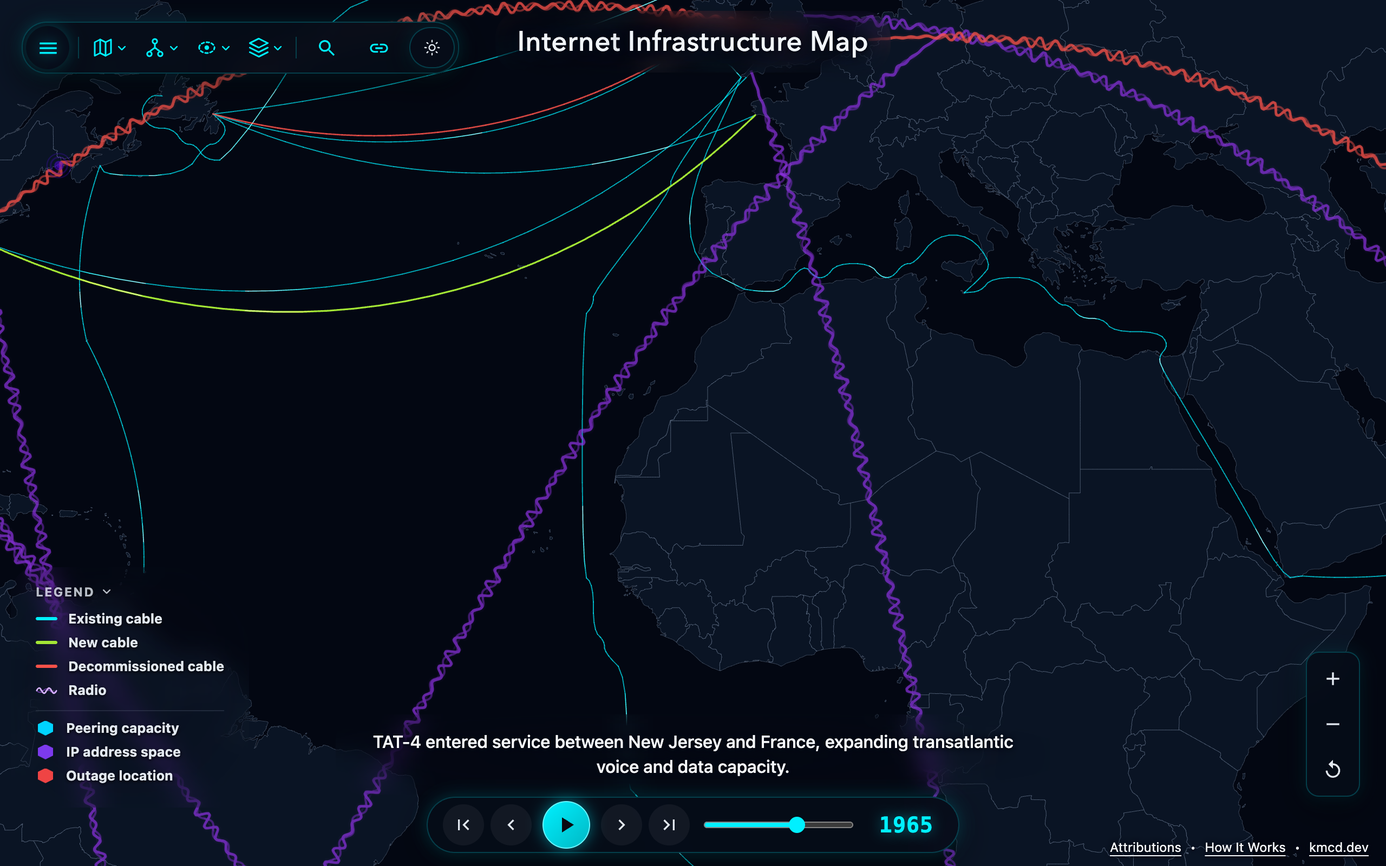
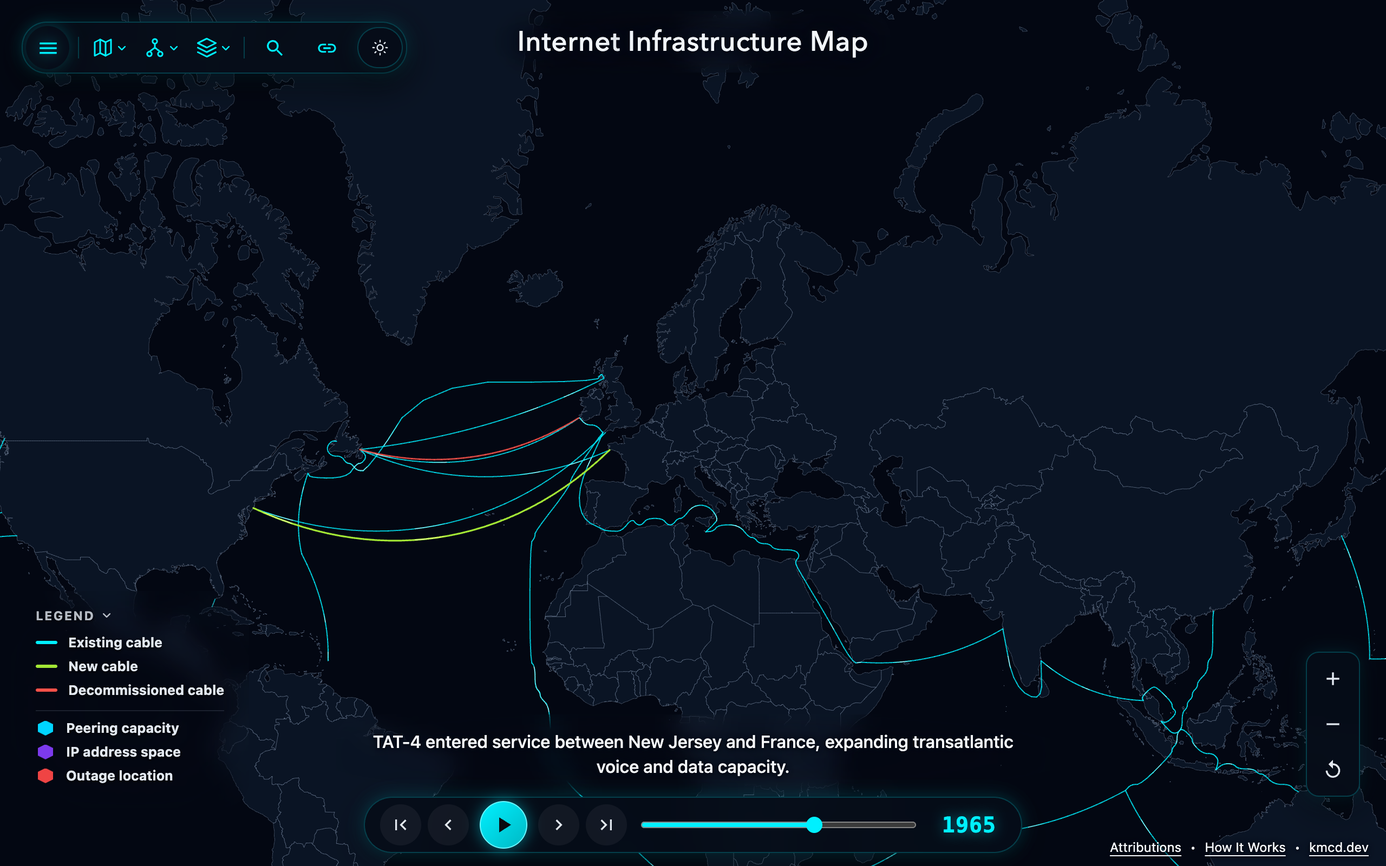
Fixes

diff --git a/content/posts/2026/from-copper-to-glass/index.md b/content/posts/2026/from-copper-to-glass/index.md
@@ -1,9 +1,9 @@
 ---
 categories: ["article", "project", "dataviz"]
 tags: ["dataviz", "internet-map", "internet", "networking", "bgp", "fiber-optics", "radio", "satellites", "telegraph", "history", "map", "world", "infrastructure"]
-keywords: ["physical internet", "how the internet works", "submarine cable history", "undersea telegraph cable", "vlf radio stations", "shortwave radio trunks", "coaxial submarine cable", "tat-1", "tat-8", "communications satellites", "satnet", "starlink vs fiber optic bandwidth", "undersea fiber optic cables", "edfa amplifier", "roadm", "ixp peering", "bgp routing", "decommissioned submarine cables"]
+keywords: ["physical internet", "how the internet works", "submarine cable history", "undersea telegraph cable", "vlf radio stations", "shortwave radio trunks", "coaxial submarine cable", "tat-1", "tat-8", "communications satellites", "satnet", "starlink vs fiber optic bandwidth", "undersea fiber optic cables", "terrestrial backbone corridors", "edfa amplifier", "roadm", "ixp peering", "bgp routing", "decommissioned submarine cables"]
 date: "2026-11-03T10:00:00Z"
-description: "Adding a visual history of global communications at map.kmcd.dev/learn/, backfilling decommissioned telegraph and coaxial cables, and mapping intercontinental radio trunks."
+description: "Adding a visual history of global communications at map.kmcd.dev/learn/, backfilling decommissioned telegraph and coaxial cables, mapping intercontinental radio trunks, and adding terrestrial backbone corridors."
 cover: "cover.webp"
 images: ["posts/from-copper-to-glass/cover.webp"]
 featured: true
@@ -15,9 +15,7 @@ canonical_url: https://kmcd.dev/posts/from-copper-to-glass
 draft: true
 ---
 
-I originally built the [Internet Infrastructure Map](https://map.kmcd.dev) because I thought undersea fiber-optic cables were interesting. Since then, I've been slowly piecing the history of the global Internet together. After adding historical fiber cables, I started backfilling old telegraph and coaxial cables. Then I realized the picture still wasn't complete: if you scrubbed through the early-to-mid 1900s on the map, it didn't make any sense. Major routes were being decommissioned with no alternative replacing them.
-
-The missing piece was point-to-point radio systems that took over intercontinental traffic during that era. Once I added radio to the map, I also built a new page at **[map.kmcd.dev/learn/](https://map.kmcd.dev/learn/)** to walk through the technological history that led to our modern internet.
+I originally built the [Internet Infrastructure Map](https://map.kmcd.dev) because I thought undersea fiber-optic cables were interesting. Since then, I've been slowly piecing the history of the global Internet together. After adding historical fiber cables, I started backfilling old telegraph and coaxial cables. Then I finally added radio systems to the map, stopping short of the monumental task of mapping satellites. I also built a new page at **[map.kmcd.dev/learn/](https://map.kmcd.dev/learn/)** to walk through the technological history that led to our modern internet.
 
 {{< diagram >}}
 {{< figure src="learn-telegraph.png" alt="The new /learn/ page on map.kmcd.dev showing the Copper Pulses telegraph section" caption="The new page at **[map.kmcd.dev/learn/](https://map.kmcd.dev/learn/)**." loading="lazy" >}}
@@ -25,61 +23,44 @@ The missing piece was point-to-point radio systems that took over intercontinent
 
 ## Backfilling Decommissioned Cables
 
-Modern submarine cable databases focus almost exclusively on active fiber systems. When I first added the timeline slider down to 1858, a lot of historical cables were either missing or had the wrong activation and retirement years. If a cable's retirement year was missing, it either stayed on the map forever or never showed up at all.
+Modern submarine cable databases focus almost exclusively on active fiber systems. The historical data is pretty messy. I did a lot of tedious work trying to patch the full history together. There is a new button on the map if you want to download the whole 1858-to-present cable list as a CSV. I suspect it will be useful to some others as well.
 
-I went back through historical records to backfill dozens of decommissioned systems and fix their retirement dates across three generations of undersea cables (and added a button on the map to download the full 1858–present cable dataset as a CSV):
-
-- **Telegraph Cables (1858–1900s):** From the short-lived **1858 Transatlantic Cable** and the **1866 Cable** laid by the *SS Great Eastern* to the **1870 UK–Australia** chain, the **German Atlantic (1900)** cable, the British **All Red Line (1902)**, and the **First Transpacific (1903)** cable.
-- **Coaxial Telephone Cables (1920s–1980s):** Starting with **Key West–Havana (1921)** and **TAT-1 (1956)** through **TAT-7**, **CANTAT-1/2**, **COMPAC**, **TPC-1/2**, and **SAT-1**.
-- **Retired First-Generation Fiber (1988–2000s):** Early optical systems from the late 1980s and 1990s that have already been retired, like **TAT-8**, **HAW-4**, **TPC-3**, and **SEA-ME-WE 1 & 2**.
-
-I also backfilled the historical BGP routing layer on the map from 2010 back to **1997** using archived Cisco `show ip bgp` text dumps from [RouteViews](https://archive.routeviews.org/oix-route-views/) and early MRT snapshots from [RIPE RIS](https://data.ris.ripe.net/rrc00/).
+While I was digging through old archives, I also pushed the map's historical BGP routing layer back from 2010 to **1997** using [RouteViews](https://archive.routeviews.org/oix-route-views/) and [RIPE RIS](https://data.ris.ripe.net/rrc00/).
 
 {{< diagram >}}
-{{< figure src="map-coax-1965.png" alt="The map in 1965 showing coaxial submarine cables and decommissioned radio links" caption="The map in **[1965](https://map.kmcd.dev/?year=1965)** as coaxial telephone cables were replacing older telegraph and radio links." loading="lazy" >}}
+{{< figure src="map-coax-1965.png" alt="The map in 1965 showing coaxial submarine cables and decommissioned telegraph cables" caption="The map in **[1965](https://map.kmcd.dev/?year=1965)** as coaxial telephone cables were replacing older telegraph cables." loading="lazy" >}}
 {{< /diagram >}}
 
 ## Why the Map Needed Radio
 
-Fixing the decommission dates on the old telegraph cables created a new problem. When I dragged the timeline slider through the early-to-mid 1900s, major routes were turning red and disappearing with nothing taking their place. Early transatlantic telegraph cables were retiring in the 1910s and 1920s, the **German Atlantic** cable was cut in 1914 with no replacement cable for decades, and the **1903 First Transpacific** cable retired in 1951—years before the first transpacific coaxial cables (**HAW-1** and **TPC-1**) were laid.
+Fixing the decommission dates on the old telegraph cables created a new problem. When I dragged the timeline slider through the early-to-mid 1900s, major routes were turning red and disappearing with nothing taking their place. Out in the Pacific, the **1903 First Transpacific** cable shut down in 1951, years before the first coaxial telephone cables (**HAW-1** and **TPC-1**) were laid. Looking at a cables-only map, it looked like the world was disconnecting itself in the first half of the 1900s.
 
-Looking at a cables-only map, it looked like the world was disconnecting itself in the first half of the 1900s. In reality, those routes moved into the air. Before undersea vacuum-tube repeaters made transoceanic telephone cables possible in 1956, point-to-point longwave and shortwave radio networks took over long-distance telegraphy and carried the first intercontinental phone calls.
+In reality, those routes moved into the air.
 
 {{< diagram >}}
 {{< figure src="map-radio-1929.png" alt="The map in 1929 showing wavy point-to-point radio links across the globe" caption="Intercontinental radio trunks (wavy purple lines) alongside submarine telegraph cables in **[1929](https://map.kmcd.dev/?year=1929)**." loading="lazy" >}}
 {{< /diagram >}}
 
-To fill in that gap, I added a **Radio** layer to **[map.kmcd.dev](https://map.kmcd.dev)** (rendered as wavy purple lines) covering major intercontinental radio links from 1907 to the 1970s—including Marconi's early transatlantic stations, the British Imperial Wireless Chain, the Dutch *"Hallo Bandoeng"* link to Java, AT&T and RCA's transatlantic and transpacific trunks, Denmark's Skamlebæk Radio across the North Atlantic, and high-power VLF stations like Grimeton (SAQ), Rugby (GBR), and naval submarine transmitters like Goliath, Jim Creek, and Cutler (which show up on the map as giant coverage rings).
+To fill that gap, I added a **Radio** layer to **[map.kmcd.dev](https://map.kmcd.dev)** (rendered as wavy purple lines) covering major intercontinental radio trunks from 1907 into the 1970s. High-power VLF stations also show up on the map as big coverage rings. With radio on the map, the timeline in the 1900s finally makes sense.
 
-With radio on the map, the timeline in the 1900s finally makes sense. You can see radio links spin up in the 1910s and 1920s as old telegraph cables age out, and then watch each radio trunk retire in the 1950s and 1960s the exact year a coaxial cable like **TAT-1 (1956)**, **CANTAT-1 (1961)**, **COMPAC (1963)**, or **TPC-1 (1964)** lands on the same corridor.
+## Terrestrial Backbones
 
-## What About Satellites?
-
-Once you reach the 1960s, another piece of infrastructure enters the picture: communications satellites. From **Telstar 1 (1962)** and **INTELSAT I ("Early Bird", 1965)** in geostationary orbit to the Soviet **Molniya** constellation, satellites carried over half of all transoceanic phone calls and nearly all live international television through the 1970s and early 1980s—and even carried the first transatlantic TCP/IP packets over DARPA's **SATNET**.
-
-I actually tried adding satellites to the main map at first, but between the orbit rings, moving constellations, and ground footprints, it cluttered up the globe too much and made it hard to click on cities. Instead of cramming them onto the 2D/3D cable map, I dedicated a full section of the **[learn page](https://map.kmcd.dev/learn/#era-satellite)** to the impact of satellites—from the ~550 ms speed-of-light latency tax in geostationary orbit that pushed core voice and Internet trunks back to subsea fiber with **TAT-8 (1988)**, to how modern LEO constellations like **Starlink**, **OneWeb**, and **Iridium** compare against submarine glass today—while pointing to dedicated 3D orbital trackers like **[satellitemap.space](https://satellitemap.space)** and **[Stuff in Space](https://stuffin.space)** to visualize the live constellations.
+You might have noticed that submarine cables are only shown in the water. One reason is the definition of "submarine" but yes, there is a ton of buried fiberoptic cable along the sides of major highways and rail lines all across every continent in the world. This hasn't been represented very well, so that map had huge empty gaps across the middle of continents even with inland IXPs from PeeringDB on the map. To help fix this, I added a new **Backbone** layer (dashed orange lines) to connect major inland IXPs to each other and to the coastal cable landings.
 
 {{< diagram >}}
-{{< figure src="learn-satellites.png" alt="The Satellites (Orbital Relays) section on map.kmcd.dev/learn" caption="The new **[Satellites](https://map.kmcd.dev/learn/#era-satellite)** section on **[map.kmcd.dev/learn/](https://map.kmcd.dev/learn/)**." loading="lazy" >}}
+{{< figure src="map-backbone.png" alt="The map showing terrestrial backbone corridors connecting inland metro hubs across North America, Europe, South America, and India" caption="Terrestrial backbone corridors (dashed orange lines) alongside submarine cables in **[2026](https://map.kmcd.dev)**." loading="lazy" >}}
 {{< /diagram >}}
 
 ## From Copper to Glass
 
-The map shows *where* all of these systems were built, but there are a lot of cool engineering stories behind how they worked and why each generation replaced the last. I put together **[map.kmcd.dev/learn/](https://map.kmcd.dev/learn/)** as an interactive companion guide to the map.
+A map is great for showing where all of these lines went, but I also wanted a place to explain how the hardware worked and why each technology replaced the one before it. That's what **[map.kmcd.dev/learn/](https://map.kmcd.dev/learn/)** is for. It also has a full section on **[satellites](https://map.kmcd.dev/learn/#era-satellite)**, since trying to draw satellite orbits on the main map was a complete mess.
 
 {{< diagram >}}
 {{< figure src="learn-radio.png" alt="The Longwave Ether section on map.kmcd.dev/learn" caption="Inside **[map.kmcd.dev/learn/](https://map.kmcd.dev/learn/)**." loading="lazy" >}}
 {{< /diagram >}}
 
-It walks through six eras with custom SVG diagrams and direct links to jump to each era on the map:
+{{< diagram >}}
+{{< figure src="learn-satellites.png" alt="The Satellites (Orbital Relays) section on map.kmcd.dev/learn" caption="The new **[Satellites](https://map.kmcd.dev/learn/#era-satellite)** section on **[map.kmcd.dev/learn/](https://map.kmcd.dev/learn/)**." loading="lazy" >}}
+{{< /diagram >}}
 
-1. **[Copper Pulses (1850s to 1920s)](https://map.kmcd.dev/learn/#era-telegraph):** Why the first transatlantic cable burned out after three weeks, how 4,000 km of ocean turns a wire into a giant capacitor, the clever signaling trick that made undersea telegraphy work, and a plug for **[morse.kmcd.dev](https://morse.kmcd.dev)** to test your own Morse code WPM.
-2. **[Longwave Ether (1910s to 1940s)](https://map.kmcd.dev/learn/#era-radio):** How wartime censorship and cable-cutting led to continent-scale VLF stations and a 2 km antenna strung across a volcanic gorge in Java (*"Hallo Bandoeng"*), and how shortwave beams upended the undersea cable monopoly and carried the first transoceanic phone calls.
-3. **[Coaxial Waves (1950s to 1980s)](https://map.kmcd.dev/learn/#era-coax):** Why solar storms pushed intercontinental phone calls back to the ocean floor with **TAT-1**, and how engineers powered vacuum-tube repeaters with ~4,000V DC every 70 km across the Atlantic and Pacific.
-4. **[Orbital Relays / Satellites (1960s to Present)](https://map.kmcd.dev/learn/#era-satellite):** How **Telstar**, **Early Bird**, and **INTELSAT** took over more than half of transoceanic voice calls and connected early **SATNET** TCP/IP networks, why geostationary latency (~550 ms RTT) drove core Internet backbones back to the seabed, and why over 99% of intercontinental data still travels through submarine fiber even in the era of LEO mega-constellations like **Starlink**.
-5. **[Photonic Glass (1988 to Present)](https://map.kmcd.dev/learn/#era-fiber):** Inside an 8-layer modern submarine fiber cable, how undersea repeaters (EDFAs and Raman lasers) amplify light directly inside the glass, how underwater branching units and ROADMs drop wavelengths off at islands, and some of my favorite places to spot on the map (island-hopping cables in the Maldives, polar satellite ground-station fiber to Svalbard, and the Red Sea / Suez Canal chokepoint).
-6. **[Network Peering (Present)](https://map.kmcd.dev/learn/#era-bgp):** What happens once the light leaves the ocean—how Internet Exchange Points (IXPs), private cross-connects (PNIs), and paid IP transit compare, plus how to spot IXP peering in `traceroute` hostnames with a side-by-side comparison of traffic tromboning through London vs. peering locally at AMS-IX.
-
-## Check It Out
-
-Head over to **[map.kmcd.dev/learn/](https://map.kmcd.dev/learn/)** to read the full guide, or scrub through the updated historical timeline yourself on **[map.kmcd.dev](https://map.kmcd.dev)**.
+Take a look at **[map.kmcd.dev/learn/](https://map.kmcd.dev/learn/)** and **[map.kmcd.dev](https://map.kmcd.dev)**, and let me know what you think.

diff --git a/content/posts/2026/http3-from-scratch-part-3/index.md b/content/posts/2026/http3-from-scratch-part-3/index.md
@@ -23,47 +23,45 @@ In this post, we'll remove `quic-go` and implement our own QUIC packet and strea
 
 ### Leaving TCP Behind
 
-At the end of [HTTP/2 From Scratch: Part 4](/posts/http2-from-scratch-part-4/), I talked about why HTTP/2 only solved head-of-line blocking at the application layer. Since HTTP/2 multiplexes all of its streams over a single TCP connection, it still inherits TCP's strict sequential packet ordering. If a TCP packet carrying bytes for `Stream 0` gets dropped on the network while a packet for `Stream 4` arrives, the OS kernel holds `Stream 4`'s bytes in its buffer until the lost packet for `Stream 0` is retransmitted:
+At the end of [HTTP/2 From Scratch: Part 4](/posts/http2-from-scratch-part-4/), I talked about why HTTP/2 only solved head-of-line blocking at the application layer. Since HTTP/2 multiplexes all of its streams over a single TCP connection, it still inherits TCP's strict sequential packet ordering. In Part 4, I drew this diagram of `Stream 4` waiting in the kernel's TCP receive buffer while TCP retransmits a lost packet for `Stream 0`:
 
 {{< image src="holb.png" width="420px" class="center" >}}
 
-As I mentioned back then, the only ways around this were to make big changes to TCP (which isn't going to happen with how many routers and firewalls inspect TCP headers) or abandon TCP for UDP. QUIC ([RFC 9000](https://www.rfc-editor.org/rfc/rfc9000.html)) takes the UDP route. Since UDP datagrams are just 8 bytes of port and length headers followed by raw bytes, QUIC can manage its own streams and retransmissions on top of `net.PacketConn` without one lost packet stalling every other stream on the connection.
-
-And as I wrote about in [gRPC Over HTTP/3](/posts/grpc-over-http3/), QUIC also folds the TLS 1.3 handshake into its own `CRYPTO` frames (`0x06`) instead of waiting for a separate TCP 3-way handshake to finish first, which gets new connections down to 1-RTT (or 0-RTT when resuming a session).
+In `quic_conn.go`, we use `net.ListenPacket("udp", addr)` instead of `net.Listen("tcp", addr)`. Because QUIC ([RFC 9000](https://www.rfc-editor.org/rfc/rfc9000.html)) frames its own packets over UDP and carries the TLS 1.3 handshake inside `CRYPTO` frames (`0x06`) (which I wrote about in [gRPC Over HTTP/3](/posts/grpc-over-http3/)), each `toyQUICStream` can buffer and read its own frames without waiting on other streams.
 
 ### Debugging QUIC Traffic
 
 One downside of moving from HTTP/1.1 on TCP to QUIC on UDP is that you can't just use `nc` or `telnet` to see what your server is doing.
 
-When I was working on my `quic-go` PRs, I used Wireshark with `SSLKEYLOGFILE=/tmp/keys.log`. If you set that environment variable when running `quic-go`, `curl`, or Chrome, they dump their TLS keys to `/tmp/keys.log`. You can configure that path in Wireshark under *Preferences -> Protocols -> TLS* and Wireshark will decrypt the UDP datagrams and show you the `CRYPTO`, `ACK`, and `STREAM` frames inside. `quic-go` also has a `QLOGDIR` environment variable that writes JSON trace files you can open in [qvis.quictools.info](https://qvis.quictools.info/).
+When I was working on my `quic-go` PRs, I used Wireshark with `SSLKEYLOGFILE=/tmp/keys.log`. With `/tmp/keys.log` configured under *Preferences -> Protocols -> TLS*, Wireshark decrypts the QUIC packets from `quic-go`, `curl`, and Chrome. I also used `QLOGDIR` in `quic-go` to dump `.qlog` files for [qvis.quictools.info](https://qvis.quictools.info/).
 
 ### QUIC Packets and STREAM Frames
 
-When we read a UDP datagram from `net.PacketConn`, we first need to parse the QUIC packet header ([RFC 9000 Section 17](https://www.rfc-editor.org/rfc/rfc9000.html#name-packet-formats)). The highest bit of the first byte tells us whether we're looking at a **Long Header** (used during the handshake) or a **Short Header** (used for 1-RTT data):
+In `quic_frame.go`, `ParsePacket` decodes the QUIC packet header ([RFC 9000 Section 17](https://www.rfc-editor.org/rfc/rfc9000.html#name-packet-formats)) from the start of each UDP datagram. We check the highest bit (`0x80`) of the first byte to see which of the two RFC 9000 packet headers we're parsing:
 
 {{< image src="quic-packets.svg" width="820px" class="center" inline="true" >}}
 
-Notice that both packet headers include a **Destination Connection ID** (`DestConnID`). With TCP, a connection is identified by the client and server IP and port, so if you switch from Wi-Fi to mobile data and your IP address changes, your TCP connection dies. In QUIC, the server looks up the connection in a map using `DestConnID` instead of the UDP source address.
+Notice that both packet headers include a **Destination Connection ID** (`DestConnID`). In `quic_conn.go`, our listener stores active connections in `conns map[uint64]*toyQUICConn` keyed by `DestConnID` rather than by the client's UDP address (which is also how QUIC connections survive Wi-Fi to cellular IP changes).
 
 Inside the packet payload is a sequence of QUIC frames ([RFC 9000 Section 19](https://www.rfc-editor.org/rfc/rfc9000.html#name-frame-types-and-formats)). Here are the `Packet` and `QUICFrame` structs we use in `quic_frame.go`:
 
 ```go
 type Packet struct {
-	IsLongHeader bool
-	LongType     uint8
-	Version      uint32
-	DestConnID   uint64
-	SrcConnID    uint64
-	PacketNumber uint32
-	Frames       []QUICFrame
+    IsLongHeader bool
+    LongType     uint8
+    Version      uint32
+    DestConnID   uint64
+    SrcConnID    uint64
+    PacketNumber uint32
+    Frames       []QUICFrame
 }
 
 type QUICFrame struct {
-	Type     uint64
-	StreamID uint64
-	Offset   uint64
-	Fin      bool
-	Data     []byte
+    Type     uint64
+    StreamID uint64
+    Offset   uint64
+    Fin      bool
+    Data     []byte
 }
 ```
 
@@ -76,70 +74,68 @@ In `AppendQUICFrame`, we set those bits on `QUICFrameStreamBase` (`0x08`) and en
 ```go
 frameType := QUICFrameStreamBase | StreamFlagLEN
 if f.Offset > 0 {
-	frameType |= StreamFlagOFF
+    frameType |= StreamFlagOFF
 }
 if f.Fin {
-	frameType |= StreamFlagFIN
+    frameType |= StreamFlagFIN
 }
 buf = AppendVarint(buf, frameType)
 buf = AppendVarint(buf, f.StreamID)
 if f.Offset > 0 {
-	buf = AppendVarint(buf, f.Offset)
+    buf = AppendVarint(buf, f.Offset)
 }
 buf = AppendVarint(buf, uint64(len(f.Data)))
 buf = append(buf, f.Data...)
 ```
 
-The `Stream ID` varint in that diagram also uses its lowest two bits as flags: bit `0` is `0` for client-initiated streams and `1` for server-initiated streams, and bit `1` is `0` for bidirectional streams and `1` for unidirectional streams. That explains the stream numbers we saw in Part 1 and Part 2: client request streams have `0b00` in the bottom two bits (`0, 4, 8...`), the client's control stream has `0b10` (`2`), and the server's control stream has `0b11` (`3`).
+Take a look at the `Stream ID` varint in that diagram too. Remember in Part 1 and Part 2 how client request streams were numbered `0, 4, 8...` while the control streams were `2` and `3`? The lowest two bits of a QUIC stream ID are bitflags for who initiated the stream (`client=0, server=1`) and whether it's unidirectional (`bidi=0, uni=1`). Counting up client bidirectional streams by 1 actually increments the ID by 4 (`0b00`, `0b100`, `0b1000`).
 
-What about QUIC packet encryption? In a real QUIC stack like `quic-go`, the payload of every QUIC packet is encrypted with keys from the TLS 1.3 handshake in the `CRYPTO` frames. Just like I skipped implementing Huffman trees in HTTP/2 Part 4 and skipped HTTP trailers in Part 1, I'm not implementing RFC 9001 TLS packet header protection here. Our toy `quic_conn.go` sends the encoded `Packet` bytes directly over the UDP socket.
+What about QUIC packet encryption? In a real QUIC stack like `quic-go`, the payload of every QUIC packet is encrypted with keys from the TLS 1.3 handshake in the `CRYPTO` frames. Just like I skipped implementing Huffman trees in HTTP/2 Part 4 and skipped HTTP trailers in Part 1, I'm not implementing RFC 9001 TLS packet header protection here. In `quic_conn.go`, we just write the encoded `Packet` bytes straight to the UDP socket.
 
 ### Reassembling Streams Over UDP
 
-How do we turn unordered UDP datagrams into an `io.Reader` stream that delivers bytes in order? In `quic_conn.go`, each `toyQUICStream` keeps a `chunks map[uint64][]byte` that maps a byte `Offset` to its data slice, along with `readOffset` and `finOffset`:
+In `quic_conn.go`, each stream is a `toyQUICStream` that implements `io.Reader` and `io.Writer`. Whenever `handlePacket` decodes a `STREAM` frame from the UDP socket, it passes the frame's byte `Offset`, `Data`, and `Fin` bit to `pushFrame`, which stores the slice in `s.chunks[offset]` and wakes up any blocked reader on `s.cond`:
 
 ```go
 func (s *toyQUICStream) pushFrame(offset uint64, data []byte, fin bool) {
-	s.mu.Lock()
-	defer s.mu.Unlock()
+    s.mu.Lock()
+    defer s.mu.Unlock()
 
-	if len(data) > 0 {
-		s.chunks[offset] = bytes.Clone(data)
-	}
-	if fin {
-		s.finReceived = true
-		s.finOffset = offset + uint64(len(data))
-	}
-	s.cond.Broadcast()
+    if len(data) > 0 {
+        s.chunks[offset] = bytes.Clone(data)
+    }
+    if fin {
+        s.finReceived = true
+        s.finOffset = offset + uint64(len(data))
+    }
+    s.cond.Broadcast()
 }
 ```
 
-When the HTTP/3 server or client calls `stream.Read(p)`, we check if `s.chunks` has an entry for the current `s.readOffset`. If the next chunk hasn't arrived yet, `Read` blocks on `s.cond.Wait()`:
+In `Read`, we look up `s.chunks[s.readOffset]` in a loop. If UDP datagrams arrive out of order (like `offset=6` arriving before `offset=0` in `TestOutOfOrderStreamReassembly`), `s.chunks[0]` isn't in the map yet and `Read` blocks on `s.cond.Wait()` without holding up other streams on the connection:
 
 ```go
 func (s *toyQUICStream) Read(p []byte) (int, error) {
-	s.mu.Lock()
-	defer s.mu.Unlock()
+    s.mu.Lock()
+    defer s.mu.Unlock()
 
-	for {
-		if chunk, ok := s.chunks[s.readOffset]; ok {
-			n := copy(p, chunk)
-			s.advanceReadOffset(n, chunk)
-			return n, nil
-		}
-		if s.finReceived && s.readOffset >= s.finOffset {
-			return 0, io.EOF
-		}
-		s.cond.Wait()
-	}
+    for {
+        if chunk, ok := s.chunks[s.readOffset]; ok {
+            n := copy(p, chunk)
+            s.advanceReadOffset(n, chunk)
+            return n, nil
+        }
+        if s.finReceived && s.readOffset >= s.finOffset {
+            return 0, io.EOF
+        }
+        s.cond.Wait()
+    }
 }
 ```
 
-If `offset=6 ("world!")` arrives on the UDP socket before `offset=0 ("hello ")`, `pushFrame` stores `"world!"` at `s.chunks[6]` and `Read` waits until `offset=0` shows up. Once `offset=0` arrives, `Read` reads `"hello "`, advances `s.readOffset` to `6`, and can immediately read `"world!"` on the next call. And since every `toyQUICStream` has its own `chunks` map, a delayed packet on `Stream 0` won't block `Read` on `Stream 4`.
-
 ### Running HTTP/3 on Our UDP Transport
 
-With `quic_frame.go` and `quic_conn.go` in place, we can drop `github.com/quic-go/quic-go` from `go.mod`:
+Removing `github.com/quic-go/quic-go` from `go.mod` leaves `golang.org/x/net` as our only dependency (which we added back in [HTTP/2 From Scratch: Part 4](/posts/http2-from-scratch-part-4/) for its HPACK/QPACK Huffman table):
 
 ```go
 module http3-part-3
@@ -149,20 +145,18 @@ go 1.25.5
 require golang.org/x/net v0.55.0
 ```
 
-The only dependency left in `go.mod` is `golang.org/x/net` for the HPACK/QPACK Huffman table from [HTTP/2 From Scratch: Part 4](/posts/http2-from-scratch-part-4/).
-
-In `transport.go`, we wire `ListenQUIC` and `DialQUIC` up to `ListenToyQUIC` and `DialToyQUIC` and run the tests and demo with our `server.go` and `client.go` from Part 2:
+In `transport.go`, I pointed `ListenQUIC` and `DialQUIC` at `ListenToyQUIC` and `DialToyQUIC` instead of `quic-go`, while keeping `server.go` and `client.go` from Part 2 untouched:
 
 ```shell
-$ go test -v ./...
+\$ go test -v ./...
 === RUN   TestOutOfOrderStreamReassembly
 --- PASS: TestOutOfOrderStreamReassembly (0.00s)
 === RUN   TestEndToEndHTTP3OverToyQUIC
 --- PASS: TestEndToEndHTTP3OverToyQUIC (0.00s)
 PASS
-ok  	http3-part-3	0.719s
+ok      http3-part-3    0.719s
 
-$ go run .
+\$ go run .
 Homemade QUIC + HTTP/3 server listening on UDP 127.0.0.1:58114
 
 [GET /hello] Status: 200 OK | X-Transport: toy-quic-udp | Body: HTTP/3 on homemade QUIC! Method=GET Path=/hello
@@ -172,7 +166,5 @@ Homemade QUIC + HTTP/3 server listening on UDP 127.0.0.1:58114
 ### Wrapping Up
 
 That brings us to the end of the HTTP/3 posts and the "HTTP from Scratch" series ([HTTP/0.9](/posts/http0.9-from-scratch/), [HTTP/1.0](/posts/http1.0-from-scratch/), [HTTP/1.1](/posts/http1.1-from-scratch/), [HTTP/2](/posts/http2-from-scratch-part-1/), and now **HTTP/3**).
-
-Starting at the top with `quic-go` in Part 1 and Part 2 before writing the UDP packet code here in Part 3 worked out much better than I expected when I started planning these posts. By the time we got to `STREAM` frames and stream ID bitmasks in this post, we had already seen how HTTP/3 uses them from the application side.
 
 See all of the code mentioned in this article in [http3-from-scratch-part-3/go](https://github.com/sudorandom/kmcd.dev/tree/main/content/posts/2026/http3-from-scratch-part-3/go).
